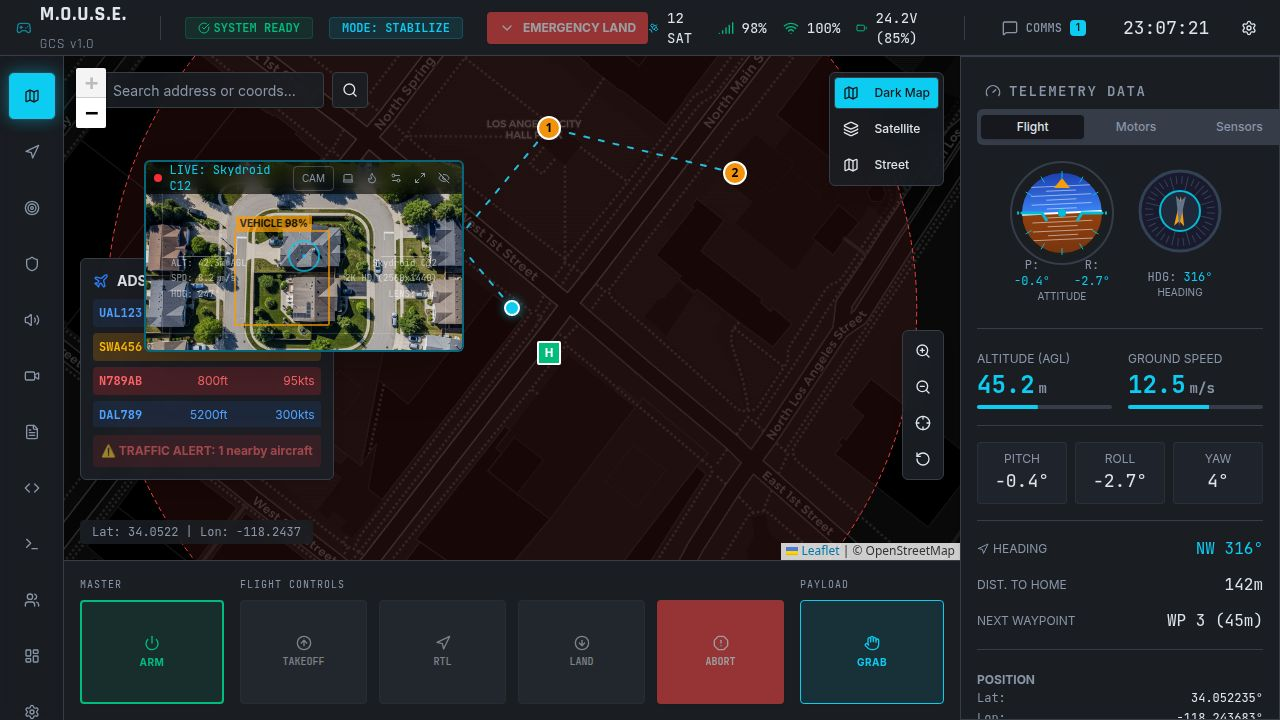
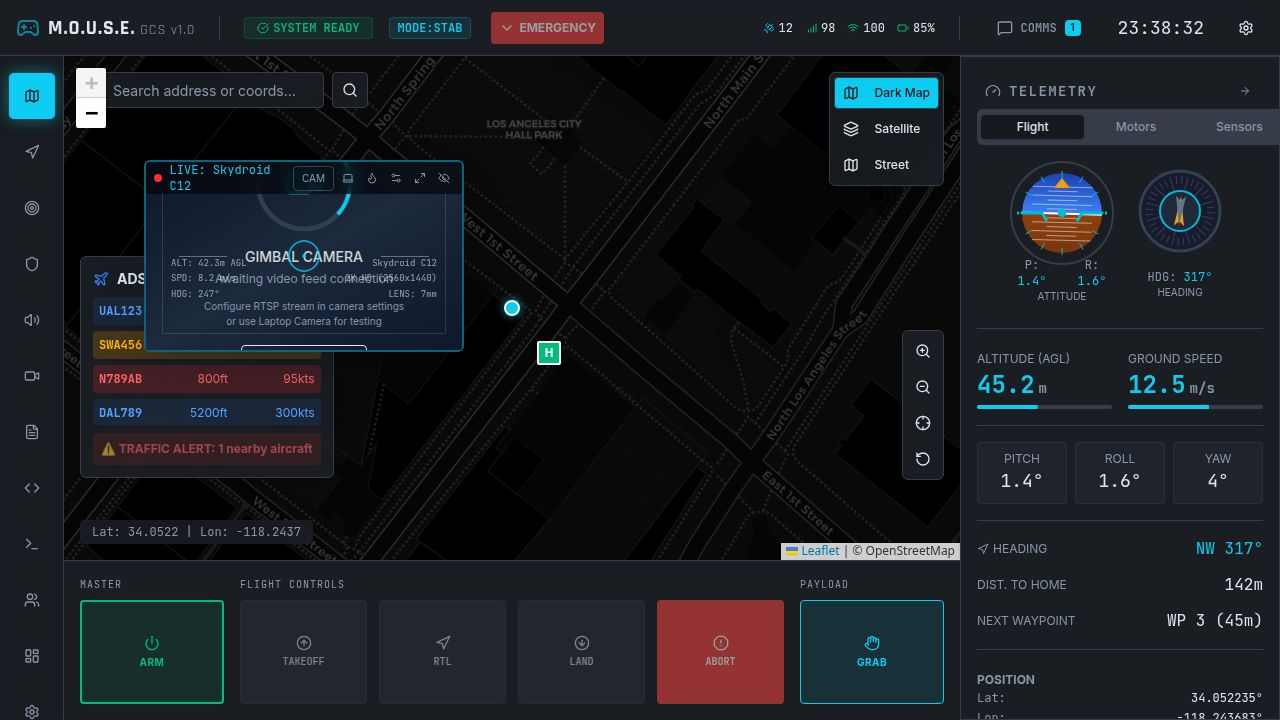
Update map to display geofencing and mission waypoints correctly
Adds `Polygon` component import to `MapInterface.tsx`, implements `useQuery` hooks for fetching waypoints and missions, and integrates `localStorage` event listeners for geofence updates. Modifies `GeofencingPanel.tsx` to dispatch a `geofence-updated` event and `MissionPlanningPanel.tsx` to dispatch a `mission-selected` event.

Replit-Commit-Author: Agent
Replit-Commit-Session-Id: 872c049b-c328-434c-802f-b1fa8bbe46cd
Replit-Commit-Checkpoint-Type: intermediate_checkpoint
Replit-Commit-Event-Id: fcb031c3-415b-4d78-ba90-9e74e18bd62c
Replit-Commit-Screenshot-Url: https://storage.googleapis.com/screenshot-production-us-central1/0fdb7df5-1238-436d-acec-b5d846929bcd/872c049b-c328-434c-802f-b1fa8bbe46cd/5phwNJO
Replit-Helium-Checkpoint-Created: true

diff --git a/client/src/components/map/MapInterface.tsx b/client/src/components/map/MapInterface.tsx
@@ -1,4 +1,4 @@
-import { MapContainer, TileLayer, Marker, Popup, Polyline, Circle, useMap } from "react-leaflet";
+import { MapContainer, TileLayer, Marker, Popup, Polyline, Circle, Polygon, useMap } from "react-leaflet";
 import "leaflet/dist/leaflet.css";
 import L from "leaflet";
 import { useEffect, useState, type MouseEvent } from "react";
@@ -9,6 +9,32 @@ import { Switch } from "@/components/ui/switch";
 import { Label } from "@/components/ui/label";
 import { Badge } from "@/components/ui/badge";
 import { toast } from "sonner";
+import { useQuery } from "@tanstack/react-query";
+
+interface GeofenceZone {
+  id: string;
+  name: string;
+  type: "circle" | "polygon";
+  enabled: boolean;
+  action: "rtl" | "land" | "hover" | "warn";
+  center?: { lat: number; lng: number };
+  radius?: number;
+  points?: { lat: number; lng: number }[];
+  maxAltitude?: number;
+  minAltitude?: number;
+}
+
+interface Waypoint {
+  id: number;
+  missionId: number;
+  order: number;
+  latitude: number;
+  longitude: number;
+  altitude: number;
+  speed: number | null;
+  action: string | null;
+  hoverTime: number | null;
+}
 
 import icon from "leaflet/dist/images/marker-icon.png";
 import iconShadow from "leaflet/dist/images/marker-shadow.png";
@@ -161,6 +187,85 @@ export function MapInterface() {
   const [adsbPosition, setAdsbPosition] = useState({ x: 16, y: 200 });
   const [adsbDragging, setAdsbDragging] = useState(false);
   const [adsbDragOffset, setAdsbDragOffset] = useState({ x: 0, y: 0 });
+  
+  // Shared state for geofence zones and waypoints
+  const [geofenceZones, setGeofenceZones] = useState<GeofenceZone[]>([]);
+  const [selectedMissionId, setSelectedMissionId] = useState<number | null>(null);
+  
+  // Fetch waypoints for selected mission
+  const { data: missionWaypoints = [] } = useQuery<Waypoint[]>({
+    queryKey: ["/api/missions", selectedMissionId, "waypoints"],
+    queryFn: async () => {
+      if (!selectedMissionId) return [];
+      const res = await fetch(`/api/missions/${selectedMissionId}/waypoints`);
+      if (!res.ok) return [];
+      return res.json();
+    },
+    enabled: !!selectedMissionId,
+  });
+  
+  // Fetch all missions to get the first one as default
+  const { data: missions = [] } = useQuery<{ id: number; name: string }[]>({
+    queryKey: ["/api/missions"],
+    queryFn: async () => {
+      const res = await fetch("/api/missions");
+      if (!res.ok) return [];
+      return res.json();
+    },
+  });
+  
+  // Load geofence zones from localStorage and listen for updates
+  useEffect(() => {
+    const loadZones = () => {
+      const saved = localStorage.getItem('mouse_geofence_zones');
+      if (saved) {
+        try {
+          setGeofenceZones(JSON.parse(saved));
+        } catch (e) {
+          console.error('Failed to parse geofence zones:', e);
+        }
+      }
+    };
+    
+    loadZones();
+    
+    // Listen for geofence updates from GeofencingPanel
+    const handleStorageChange = (e: StorageEvent) => {
+      if (e.key === 'mouse_geofence_zones') {
+        loadZones();
+      }
+    };
+    
+    // Custom event for same-tab updates
+    const handleGeofenceUpdate = () => loadZones();
+    
+    window.addEventListener('storage', handleStorageChange);
+    window.addEventListener('geofence-updated', handleGeofenceUpdate);
+    
+    return () => {
+      window.removeEventListener('storage', handleStorageChange);
+      window.removeEventListener('geofence-updated', handleGeofenceUpdate);
+    };
+  }, []);
+  
+  // Auto-select first mission if none selected (only once)
+  const [hasAutoSelected, setHasAutoSelected] = useState(false);
+  useEffect(() => {
+    if (missions.length > 0 && !selectedMissionId && !hasAutoSelected) {
+      setSelectedMissionId(missions[0].id);
+      setHasAutoSelected(true);
+    }
+  }, [missions, selectedMissionId, hasAutoSelected]);
+  
+  // Listen for mission selection changes from MissionPlanningPanel
+  useEffect(() => {
+    const handleMissionSelect = (e: CustomEvent<{ missionId: number }>) => {
+      setSelectedMissionId(e.detail.missionId);
+    };
+    
+    window.addEventListener('mission-selected' as any, handleMissionSelect);
+    return () => window.removeEventListener('mission-selected' as any, handleMissionSelect);
+  }, []);
 
   useEffect(() => {
     const interval = setInterval(() => {
@@ -289,22 +394,84 @@ export function MapInterface() {
            <Popup>Home Point</Popup>
         </Marker>
 
-        {/* Waypoints */}
-        <Marker position={[34.0530, -118.2435]} icon={WaypointIcon(1)} />
-        <Marker position={[34.0528, -118.2425]} icon={WaypointIcon(2)} />
+        {/* Mission Waypoints */}
+        {missionWaypoints.map((wp, idx) => (
+          <Marker 
+            key={wp.id} 
+            position={[wp.latitude, wp.longitude]} 
+            icon={WaypointIcon(wp.order)}
+          >
+            <Popup>
+              <div className="font-mono text-sm">
+                <strong>Waypoint {wp.order}</strong><br/>
+                Alt: {wp.altitude}m | Speed: {wp.speed || 'Auto'} m/s<br/>
+                {wp.action && <span>Action: {wp.action}</span>}
+              </div>
+            </Popup>
+          </Marker>
+        ))}
 
-        {/* Flight Path */}
-        <Polyline 
-          positions={flightPath} 
-          pathOptions={{ color: 'hsl(190 90% 50%)', weight: 2, dashArray: '5, 10' }} 
-        />
+        {/* Mission Flight Path */}
+        {missionWaypoints.length > 0 && (
+          <Polyline 
+            positions={[[34.0520, -118.2435], ...missionWaypoints.map(wp => [wp.latitude, wp.longitude] as [number, number])]} 
+            pathOptions={{ color: 'hsl(190 90% 50%)', weight: 2, dashArray: '5, 10' }} 
+          />
+        )}
         
-        {/* Safe Zone / GeoFence */}
-        <Circle 
-          center={[34.0522, -118.2437]} 
-          pathOptions={{ color: 'hsl(0 85% 60%)', fillColor: 'hsl(0 85% 60%)', fillOpacity: 0.1, weight: 1, dashArray: '4' }} 
-          radius={200} 
-        />
+        {/* Geofence Zones */}
+        {geofenceZones.filter(z => z.enabled).map(zone => (
+          zone.type === 'circle' && zone.center && zone.radius ? (
+            <Circle 
+              key={zone.id}
+              center={[zone.center.lat, zone.center.lng]} 
+              pathOptions={{ 
+                color: zone.action === 'rtl' ? 'hsl(0 85% 60%)' : 
+                       zone.action === 'land' ? 'hsl(45 85% 60%)' : 
+                       zone.action === 'hover' ? 'hsl(200 85% 60%)' : 'hsl(280 85% 60%)',
+                fillColor: zone.action === 'rtl' ? 'hsl(0 85% 60%)' : 
+                           zone.action === 'land' ? 'hsl(45 85% 60%)' : 
+                           zone.action === 'hover' ? 'hsl(200 85% 60%)' : 'hsl(280 85% 60%)',
+                fillOpacity: 0.1, 
+                weight: 2, 
+                dashArray: '4' 
+              }} 
+              radius={zone.radius} 
+            >
+              <Popup>
+                <div className="font-mono text-sm">
+                  <strong>{zone.name}</strong><br/>
+                  Action: {zone.action.toUpperCase()}<br/>
+                  Radius: {zone.radius}m
+                </div>
+              </Popup>
+            </Circle>
+          ) : zone.type === 'polygon' && zone.points && zone.points.length >= 3 ? (
+            <Polygon
+              key={zone.id}
+              positions={zone.points.map(p => [p.lat, p.lng] as [number, number])}
+              pathOptions={{ 
+                color: zone.action === 'rtl' ? 'hsl(0 85% 60%)' : 
+                       zone.action === 'land' ? 'hsl(45 85% 60%)' : 
+                       zone.action === 'hover' ? 'hsl(200 85% 60%)' : 'hsl(280 85% 60%)',
+                fillColor: zone.action === 'rtl' ? 'hsl(0 85% 60%)' : 
+                           zone.action === 'land' ? 'hsl(45 85% 60%)' : 
+                           zone.action === 'hover' ? 'hsl(200 85% 60%)' : 'hsl(280 85% 60%)',
+                fillOpacity: 0.1, 
+                weight: 2, 
+                dashArray: '4' 
+              }}
+            >
+              <Popup>
+                <div className="font-mono text-sm">
+                  <strong>{zone.name}</strong><br/>
+                  Action: {zone.action.toUpperCase()}<br/>
+                  Points: {zone.points.length}
+                </div>
+              </Popup>
+            </Polygon>
+          ) : null
+        ))}
 
         {/* ADS-B Aircraft */}
         {showAdsb && aircraft.map(ac => (

diff --git a/client/src/components/panels/MissionPlanningPanel.tsx b/client/src/components/panels/MissionPlanningPanel.tsx
@@ -275,7 +275,11 @@ export function MissionPlanningPanel() {
                     ? "border-primary bg-primary/10" 
                     : "border-transparent hover:bg-muted/50"
                 }`}
-                onClick={() => setSelectedMission(mission.id)}
+                onClick={() => {
+                  setSelectedMission(mission.id);
+                  // Notify MapInterface of mission selection
+                  window.dispatchEvent(new CustomEvent('mission-selected', { detail: { missionId: mission.id } }));
+                }}
               >
                 <div className="flex items-start justify-between">
                   <div className="flex-1 min-w-0">

diff --git a/client/src/components/panels/GeofencingPanel.tsx b/client/src/components/panels/GeofencingPanel.tsx
@@ -72,6 +72,8 @@ export function GeofencingPanel() {
 
   useEffect(() => {
     localStorage.setItem('mouse_geofence_zones', JSON.stringify(zones));
+    // Dispatch custom event for same-tab updates to MapInterface
+    window.dispatchEvent(new CustomEvent('geofence-updated'));
   }, [zones]);
 
   const handleSearch = async () => {
